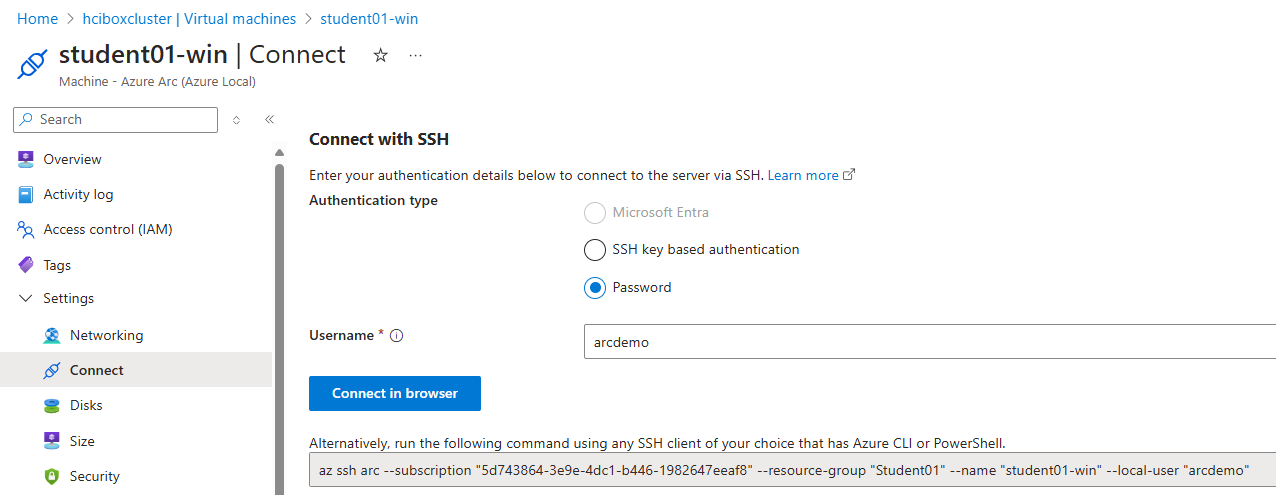
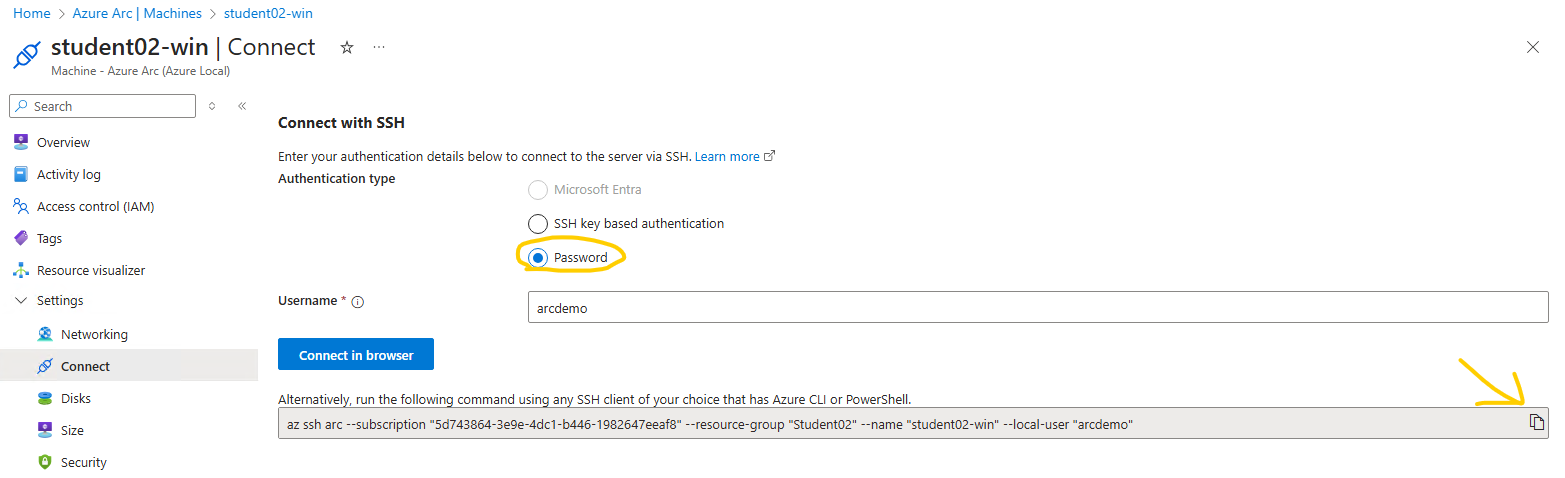
Add new images for Azure Arc server management labs. Updated instructions.

diff --git a/docs/azure_arc_servers_jumpstart/_labs_azure_local.md b/docs/azure_arc_servers_jumpstart/_labs_azure_local.md
@@ -56,28 +56,25 @@ By completing this task, you will gain a better understanding of how to use the 
 
 ### Module 2: Create Azure Arc-enabled servers running on Azure Local
 
-#### Objective
+### Objective
 
 The objective of this module is to guide you through the process of creating Azure Arc-enabled servers running on Azure Local. You will learn how to use the Azure Portal to provision and configure virtual machines in your Azure Local environment.
 
-##### Task 1: Create a virtual machine
+### Task 1: Create a virtual machine
 
 1. **Log in to the Azure Portal**:
    - Open your web browser and navigate to the [Azure Portal](https://portal.azure.com).
    - Enter your student-credentials to log in.
-
-
-Add_Azure_Local_vm1b.png
 
 2. **Navigate to Azure Arc**:
    - In the left-hand menu, select **Azure Arc**.
 
 3. **Add a new server**:
    - There are two ways to access virtual machine provisioning on Azure Local in the Azure portal - you can select either one
-       1) Under **Azure Arc**, select **Servers**.
-           - Click on **+ Add** and select **Create a machine in a connected host environment**.
-       - ![Screenshot of Add/Create option](./Add_Azure_Local_vm1a.png)
-   2) Under **Azure Arc**, expand **Host environments**, select **Azure Local** and navigate to the tab **All systems** to view the list of Azure Local systems available.
+       1) Under **Azure Arc resources**, select **Machines**.
+           - Click on **+ Add/Create** and select **Create a machine in a connected host environment**.
+ ![Screenshot of Add/Create option](./Add_Azure_Local_vm1a.png)
+   - Under **Azure Arc**, expand **Host environments**, select **Azure Local** and navigate to the tab **All systems** to view the list of Azure Local systems available.
        - Click on the Azure Local system named **hciboxcluster**
        - Expand **Resources** in the menu on the left hand-side, click **Virtual machines** and select **Create VM**
    - ![Screenshot of Add/Create option](./Add_Azure_Local_vm1b.png)
@@ -86,6 +83,9 @@ Add_Azure_Local_vm1b.png
    - Fill in the required details for your virtual machine:
      - **Subscription**: Select the subscription **Azure Arc Labs**
      - **Resource Group**: Select your resource group (**StudentXX**)
+     - **Name**: Enter a name for your virtual machine
+         - **studentXX-lin** if you want to create a Linux VM
+         - **studentXX-win** if you want to create a Windows VM
      - **Custom Location**: Select **jumpstart (Australia East)**
          - **Virtual machine kind**: **Azure Local**
      - **Security type**: Select **Standard**
@@ -93,9 +93,6 @@ Add_Azure_Local_vm1b.png
      - **Image**: Select the operating system image for your VM.
          - Select **2404-ubuntu** if you want to create a Linux VM
          - Select **2025-datacenter** if you want to create a Windows VM
-     - **Name**: Enter a name for your virtual machine
-         - **studentXX-lin** if you want to create a Linux VM
-         - **studentXX-win** if you want to create a Windows VM
      - **Size**
          - **Virtual processor count**: 2
          - **Memory (MB)**: 4096
@@ -130,9 +127,10 @@ Add_Azure_Local_vm1b.png
        - This will take approximately 5 minutes while the virtual machine is being provisioned from the selected image.
 
 8. **Verify the deployment**:
-   - Once the deployment is complete, navigate to the **Virtual Machines** section in the Azure Local cluster.
-   - Verify that the new virtual machine is listed and check its status.
-   - ![Screenshot of new VM](./Add_Azure_Local_vm5.png)
+   - Once the deployment is complete, Click **Go to resource** or navigate to the **Virtual Machines** section in the Azure Local cluster.
+       - Verify that the new virtual machine is listed and check its status.
+       - ![Screenshot of new VM](./Add_Azure_Local_vm5.png)
+       - ![Screenshot of new VM](./Add_Azure_Local_vm7.png)
 
 By completing this task, you will learn how to create and configure a virtual machine in your Azure Local environment using the Azure Portal.
 
@@ -170,11 +168,11 @@ param customLocationName = 'jumpstart'
 
 ### Module 3: Manage virtual machines running on Azure Local
 
-#### Objective
+### Objective
 
 The objective of this module is to guide you through the process of managing virtual machines running on Azure Local.
 
-##### Task 1: Connect to a virtual machine
+### Task 1: Connect to a virtual machine
 
 1. **Log in to the Azure Portal**:
     - Open your web browser and navigate to the [Azure Portal](https://portal.azure.com).
@@ -184,22 +182,84 @@ The objective of this module is to guide you through the process of managing vir
     - In the left-hand menu, select **Azure Arc**.
 
 3. **Select the virtual machine**:
-    - Under **Azure Arc**, expand **Host environments**, select **Azure Local** and navigate to the tab **All systems** to view the list of Azure Local systems available.
+    - Under **Azure Arc resources**, expand **Host environments**, select **Azure Local** and navigate to the tab **All systems** to view the list of Azure Local systems available.
     - Click on the Azure Local system named **hciboxcluster**.
     - Expand **Resources** in the menu on the left-hand side, click **Virtual machines**.
-    - Select the virtual machine you want to connect to.
+    - Select the virtual machine you created in the previous module.
 
 4. **Connect to the virtual machine**:
     - Expand **Settings** and click on **Connect**
     - Select **Password** and type in the username you specified when creating the virtual machine
-- ![Screenshot of new VM Bicep parameter file](./Manage_Azure_Local_vm1.png)
+    - Click on the copy-button in the right hand-side
+    - ![Screenshot of VM](./Manage_Azure_Local_vm1.png)
+    - Right click on the Start-menu inside the ArcBox Client VM (your student VM) and select **Terminal**
+    - Paste the command you copied from the portal
+    - If you chose to create a Windows machine, add **--rdp** to the pasted command
+    - ![Screenshot of VM](./Manage_Azure_Local_vm7.png)
+    - Press enter, type y and press enter again
+    - ![Screenshot of VM](./Manage_Azure_Local_vm2.png)
+    - Type y and press enter again
+    - ![Screenshot of VM](./Manage_Azure_Local_vm3.png)
+    - It takes a few seonds for the endpoint to be provisioned, so if it fails, hit **arrow up** and press enter to re-run the command
+    - Type **yes** to accept the SSH fingerprint and press enter
+    - Enter the password you provided when you created the machine and press enter
+    - In the Remote Desktop connection prompt, enter the credentials you provided when you created the machine and select OK
+    - You should now be logged in to the machine via Remote Desktop
 
+### Task 2: Connect to the virtual machine via console
 
-- ![Screenshot of new VM Bicep parameter file](./Manage_Azure_Local_vm2.png)
+In this task you are going to simulate a connection failure which requires console access to the virtual machine to remediate.
 
-- ![Screenshot of new VM Bicep parameter file](./Manage_Azure_Local_vm3.png)
-- ![Screenshot of new VM Bicep parameter file](./Manage_Azure_Local_vm4.png)
-- ![Screenshot of new VM Bicep parameter file](./Manage_Azure_Local_vm5.png)
-- ![Screenshot of new VM Bicep parameter file](./Manage_Azure_Local_vm6.png)
+- If you provisioned a Windows VM:
+  - Right-click on the Start-menu, select run, type **ncpa.cpl** and press enter
+  - ![Screenshot of VM](./Manage_Azure_Local_vm5.png)
+  - Right-click onthe network interface and select **Disable**
+  - ![Screenshot of VM](./Manage_Azure_Local_vm6.png)
+  - You should now loose access to the RDP session
+
+- If you provisioned a Linux VM:
+  - Run the following command when connected via SSH
+  - `sudo nmcli device disconnect eth0`
+  - You should now loose access to the SSH session
+
+  - In the Azure portal, navigate to the Azure Local system named **hciboxcluster**, expand **Settings** and select **Windows Admin Center** connect to the Azure Local cluster.
+  - Go to the **Virtual machines** menu item, select your virtual machine and click **Connect**
+    - ![Screenshot of VM](./Manage_Azure_Local_vm8.png)
+  - Specify the same credentials as you used to logon to the ArcBox Client VM
+  - Select desired Keyboard layout, check the box **Automatically connect with the certificate presented by this machine' is required**
+    - ![Screenshot of VM](./Manage_Azure_Local_vm9.png)
+  - Select **Confirm** to accept the certificate
+    - ![Screenshot of VM](./Manage_Azure_Local_vm10.png)
+  - Click **Connect**
+  - You should now be connected to a console session for the selected virtual machine.
+    - Windows
+      - ![Screenshot of VM](./Manage_Azure_Local_vm12.png)
+    - Linux
+      - ![Screenshot of VM](./Manage_Azure_Local_vm11.png)
+    - You can now restore regular network connectivity to the VM by reverting the previous action you performed to simulate a problem.
+    - Windows
+      - ![Screenshot of VM](./Manage_Azure_Local_vm13.png)
+    - Linux
+      - ![Screenshot of VM](./Manage_Azure_Local_vm14.png)
+    - Optionally, you may confirm network level connectivity by performing the steps in the previous step **Connect to the virtual machine**
 
 By completing this task, you will learn how to connect to a virtual machine running on Azure Local using the Azure Portal.
+
+### Task 3: Delete a virtual machine
+
+1. **Navigate to Azure Arc**:
+   - In the left-hand menu, select **Azure Arc**.
+
+2. **Delete a virtual machine**:
+   - There are two ways to access virtual machines running on Azure Local in the Azure portal - you can select either one
+       1) Under **Azure Arc resources**, select **Machines**.
+           - Click on the three dots on the right hand-side for the virtual machine you created in the previous task and select **Delete**.
+             - ![Screenshot of Remove option](./Remove_Azure_Local_vm2.png)
+           - Enter **delete** to confirm deletion when prompted
+       2) Under **Azure Arc**, expand **Host environments**, select **Azure Local** and navigate to the tab **All systems** to view the list of Azure Local systems available.
+           - Click on the Azure Local system named **hciboxcluster**
+           - Expand **Resources** in the menu on the left hand-side, click **Virtual machines**
+             - ![Screenshot of Remove option](./Remove_Azure_Local_vm1.png)
+           - Select **Yes** to confirm deletion when prompted
+
+By completing this task, you will learn how to delete a virtual machine running on Azure Local using the Azure Portal.
